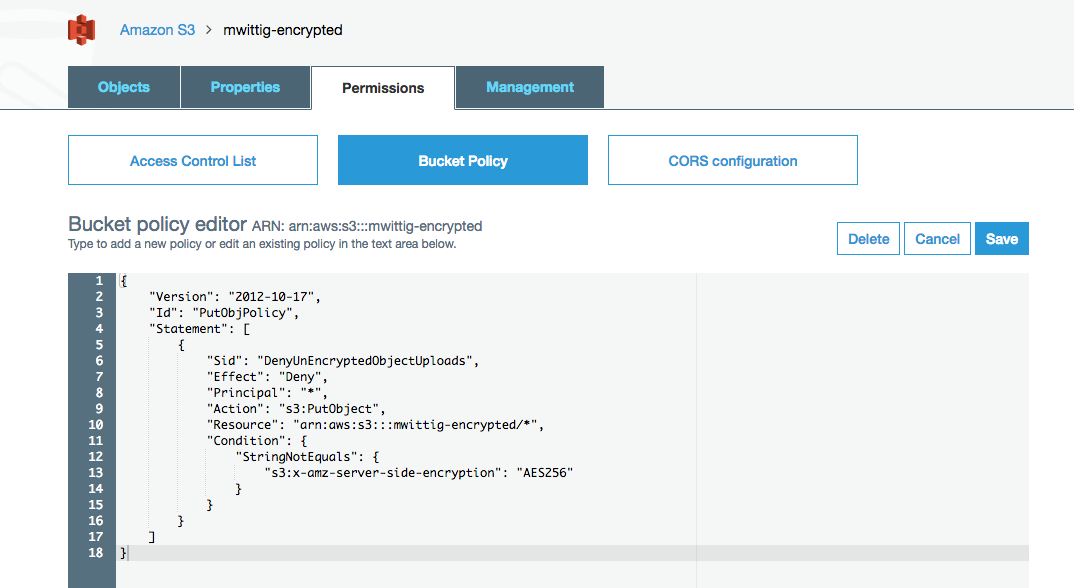
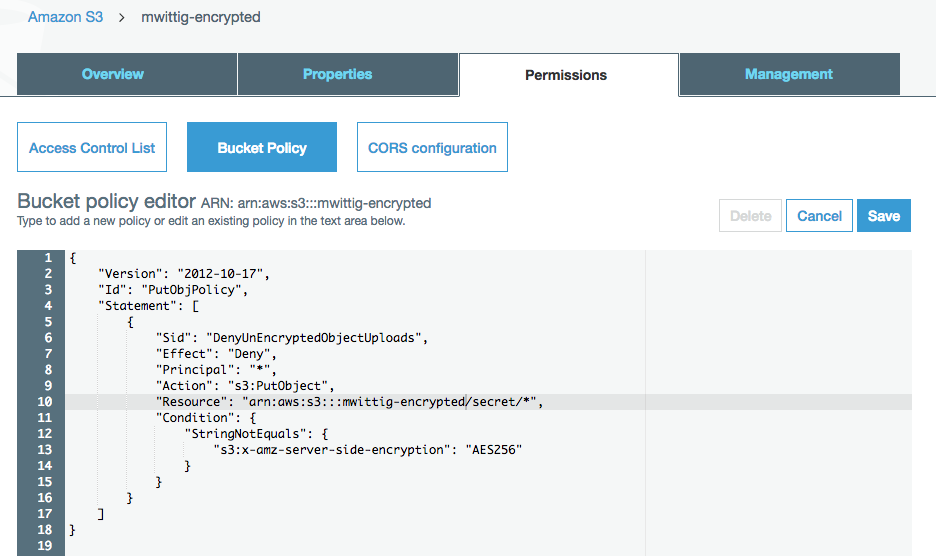
improved exercise

diff --git a/exercise4.html b/exercise4.html
@@ -28,14 +28,14 @@
             <div class="panel-heading" role="tab" id="headingOne">
               <h4 class="panel-title">
                 <a role="button" data-toggle="collapse" data-parent="#accordion" href="#collapseOne" aria-expanded="true" aria-controls="collapseOne">
-                  Task 1: Create S3 Bucket with SSE encryption turned on
+                  Task 1: Create S3 Bucket with SSE encryption turned on for all files in the folder <code>secret</code>
                 </a>
               </h4>
             </div>
             <div id="collapseOne" class="panel-collapse collapse" role="tabpanel" aria-labelledby="headingOne">
               <div class="panel-body">
                 <ol>
-                  <li>Okay, this exercise is hard. It's not possible to create a bucket with SS3 encryption turned on. Sometimes you have to think outside the box. You have to use a bucket policy to only allow uploads that turn on the SSE encryption feature. </li>
+                  <li>Okay, this exercise is hard. It's not possible to create a bucket with SS3 encryption turned on for a specific folder. Only for the whole bucket. Sometimes you have to think outside the box. You have to use a bucket policy to only allow uploads that turn on the SSE encryption feature. </li>
                   <li>Visit <a href="https://console.aws.amazon.com/s3/home?region=us-east-1" target="blank">https://console.aws.amazon.com/s3/home?region=us-east-1</a></li>
                   <li>Click on the bucket you created during exercise 2.</li>
                   <li>Select <strong>Permissions</strong> tab<br><img src="./exercise4_1.png" class="img-thumbnail img-responsive"></li>
